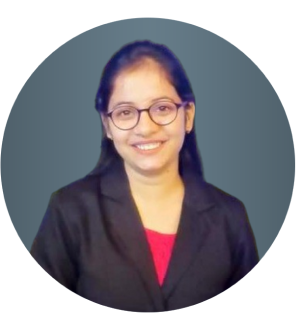
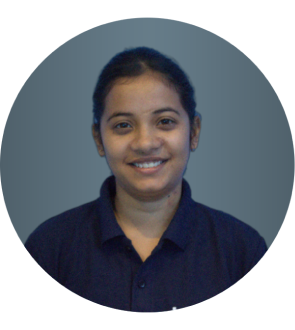
feedback form

diff --git a/client/src/Pages/Feedback.jsx b/client/src/Pages/Feedback.jsx
@@ -1,9 +1,47 @@
-import React from "react";
+import React,{setState,useState} from "react";
+import backgroundImage from '../Assets/Images/Feedback_Bg_image.png';
+import infocubelogo from '../Assets/Images/InfoCubeLogo.svg'
+import {Link} from "react-router-dom";
 
 export default function Feedback(){
+    const [activeIndex, setActiveIndex] = useState('0'); // Initially set the third dot as active
+
+  const handleClick = (index) => {
+    setActiveIndex(index);
+  };
+
     return (
-        <div>
-        Feedback
+        <div className="flex flex-col items-center justify-center bg-purple-feedback h-screen m-auto p-auto " style={{backgroundImage:`url(${backgroundImage})`}}>
+
+        <div className="p-[1rem] justify-center align-item-center "><img className=" w-[5.5rem] h-auto" src={infocubelogo}></img></div>
+        <span className="p-[1rem] text-white font-gotham  text-[2rem] text-center inline-block w-[45rem]">How much did our support aid you in your career journey?</span>
+        
+        <div className="p-[1rem] w-screen">
+        <div className="scale-container align-item-center justify-center max-w-[600px] flex p-auto m-auto">
+            <div className="scale-label">Ineffective</div>
+            <div className="scale-line">
+                <div onClick={()=>handleClick('1')} id='1' className={activeIndex==='1'?"scale-dot active":"scale-dot"}></div>
+                <div onClick={()=>handleClick('2')} id='2' className={activeIndex==='2'?"scale-dot active":"scale-dot"}></div>
+                <div onClick={()=>handleClick('3')} id='3' className={activeIndex==='3'?"scale-dot active":"scale-dot"}></div>
+                <div onClick={()=>handleClick('4')} id='4' className={activeIndex==='4'?"scale-dot active":"scale-dot"}></div>
+                <div onClick={()=>handleClick('5')} id='5' className={activeIndex==='5'?"scale-dot active":"scale-dot"}></div>
+            </div>
+            <div className="scale-label ml-[20px]">Significantly</div>
+            </div>
+            
+            </div>
+            <div className="justify-center align-item-center m-[1rem]  rounded-[32px] bg-white w-full max-w-[600px] bg-gray p-[0.2rem] border-[1px] border-solid border-black">
+            <form>
+                    <div className="flex flex-row items-center justify-between">
+                    <input type="text" className="outline-none w-full m-2 align-item-center text-gray leading-[150%] " placeholder="Write a Review"/>
+                    <div className="rounded-[29px] bg-darkslategray flex flex-row items-center justify-center py-[0.4rem] px-[1.5rem] 
+                        text-white border-[1px] border-solid border-darkslategray">                            
+                    <div className="relative leading-[150%]">Submit</div>
+                        </div>
+                        </div>
+                        </form>
+
+            </div>
         </div>
     )
 } 

diff --git a/client/src/index.css b/client/src/index.css
@@ -91,8 +91,57 @@ body {
   transition: 100ms;
 }
 
-/* .dropdownItem a{
-  max-width: 100px;
-  margin-left: 10px;
-   transition: 100ms;
-} */
+
+/*             Feedback Scale                     */
+.scale-container {
+  justify-content: space-between;
+  width: 100%;
+  
+  margin: 0 auto;
+}
+
+.scale-label {
+  flex: 0 0 100px;
+  text-align: center;
+  font-weight: bold;
+  display: flex;
+  align-items: center;
+}
+
+.scale-line {
+  display: flex;
+  align-items: center;
+  justify-content: space-between;
+  flex: 1;
+  position: relative;
+}
+
+.scale-line::before {
+  content: '';
+  position: absolute;
+  top: 50%;
+  left: 0;
+  right: 0;
+  height: 2px;
+  background-color: #004c4c;
+  z-index: 0;
+}
+
+.scale-dot {
+  width: 21px;
+  height: 21px;
+  border: 3px solid #004c4c;
+  border-radius: 50%;
+  background-color: #B190B6;
+  z-index: 1;
+}
+.scale-dot:hover {
+  background-color:#B190B6 ;
+  border-color: #FFFFFF;
+}
+
+.scale-dot.active {
+  background-color: #B190B6;
+  border-color: #FFFFFF;
+}
+/*             Feedback Scale                   */

diff --git a/client/src/Components/header/Nav.jsx b/client/src/Components/header/Nav.jsx
@@ -158,7 +158,7 @@ const Navlink = () => {
     
     <Link onClick={()=>dispatch(closeDropDown())} to='Alumni' spy={true} smooth={true} duration={800} offset={50} className="mx-[3px] md:mx-[4px] lg:mx-[5px]">ALUMNI</Link>
     
-    <KLink onClick={()=>dispatch(closeDropDown())} to='Career' className="mx-[3px] md:mx-[4px] lg:mx-[5px]">CAREER PATH</KLink>
+    <KLink onClick={()=>dispatch(closeDropDown())} to='Feedback' className="mx-[3px] md:mx-[4px] lg:mx-[5px]">FEEDBACK</KLink>
     
     <KLink onClick={()=>dispatch(closeDropDown())} to='Help' className="mx-[3px] md:mx-[4px] lg:mx-[5px]">HELP & SUPPORT</KLink>
   </div>

diff --git a/client/src/App.jsx b/client/src/App.jsx
@@ -45,7 +45,9 @@ function App() {
       <Route path='/' element={<Home/>}/>
       {/* <Route path='/Career' element={<Career/>}/> */}
       {/* <Route path='/Alumini' element={<Alumini/>}/> */}
+      <Route element={<PrivateRoute/>}>
       <Route path='/Feedback' element={<Feedback/>}/>
+      </Route>
       <Route path='/Help' element={<Help/>}/>
       <Route path='/Privacy' element={<Privacy/>}/>
       <Route path='/Signup' element={<SignUp/>}/>

diff --git a/client/tailwind.config.js b/client/tailwind.config.js
@@ -45,6 +45,7 @@ export default {
       "200": "rgba(255, 255, 255, 0.3)",
       "300":"#F3F3F3"
       },
+      "purple-feedback":"#B190B6",
       "neutral-dark-gray": "#505050"
       },
       "spacing": {},
